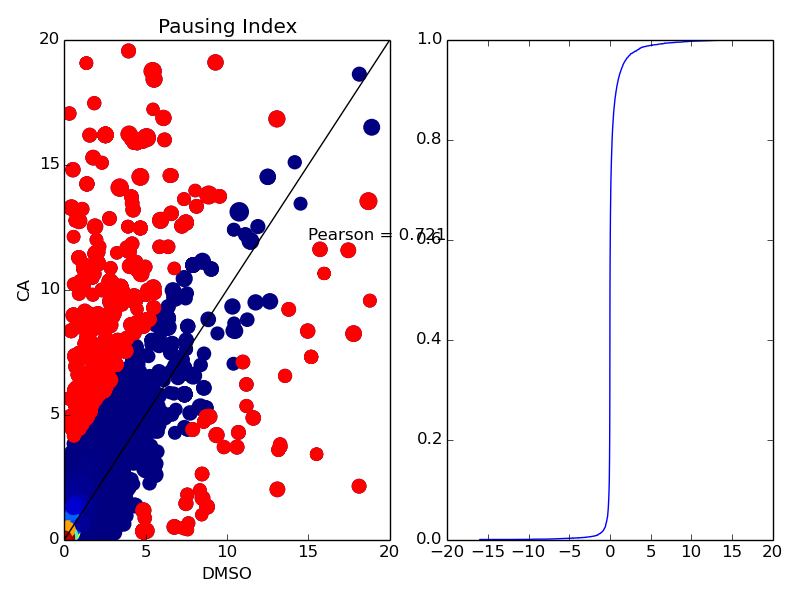
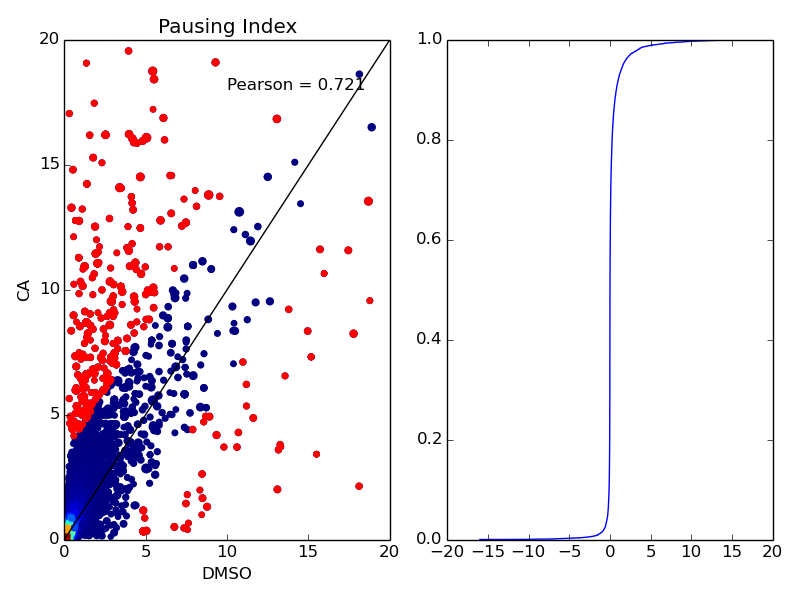
updates

diff --git a/src/master_writer.py b/src/master_writer.py
@@ -121,7 +121,7 @@ def run(DMSOgenes,DMSOTSS,DMSOEND,CAgenes,CATSS,CAEND,filedir,figuredir):
             TRx.append(DMSOTSS/(DMSOgenes-DMSOTSS))
             ERy.append(CAEND/(CAgenes-CAEND))
             ERx.append(DMSOEND/(DMSOgenes-DMSOEND))
-            expressionlist.append(5.0*(np.log2(DMSOgenes)+np.log2(CAgenes))/2.0)
+            expressionlist.append((np.log2(DMSOgenes)+np.log2(CAgenes))/2.0)
             TR = (CATSS/(CAgenes-CATSS))-(DMSOTSS/(DMSOgenes-DMSOTSS))
             cdf.append(TR)
             names.append(gene.split(';')[1])
@@ -422,9 +422,11 @@ def run(DMSOgenes,DMSOTSS,DMSOEND,CAgenes,CATSS,CAEND,filedir,figuredir):
     ax1.set_xlim([0, 20])
     ax1.set_ylim([0, 20])
     ax1.plot([0,50.0],[0,50.0],color='k')
-    ax1.text(10,18, "Pearson = " + str(pearsons)[0:5])
+    ax1.text(8,18, "Pearson = " + str(pearsons)[0:5])
     ax2 = F6.add_subplot(122)
     ax2.plot(np.sort(cdf),np.linspace(0,1,len(cdf)))
+    
+    
     plt.savefig(figuredir + '/PausingIndex.png')
     
     order = ['FOS','EGR1','EGR2','EGR3','NR4A3']
